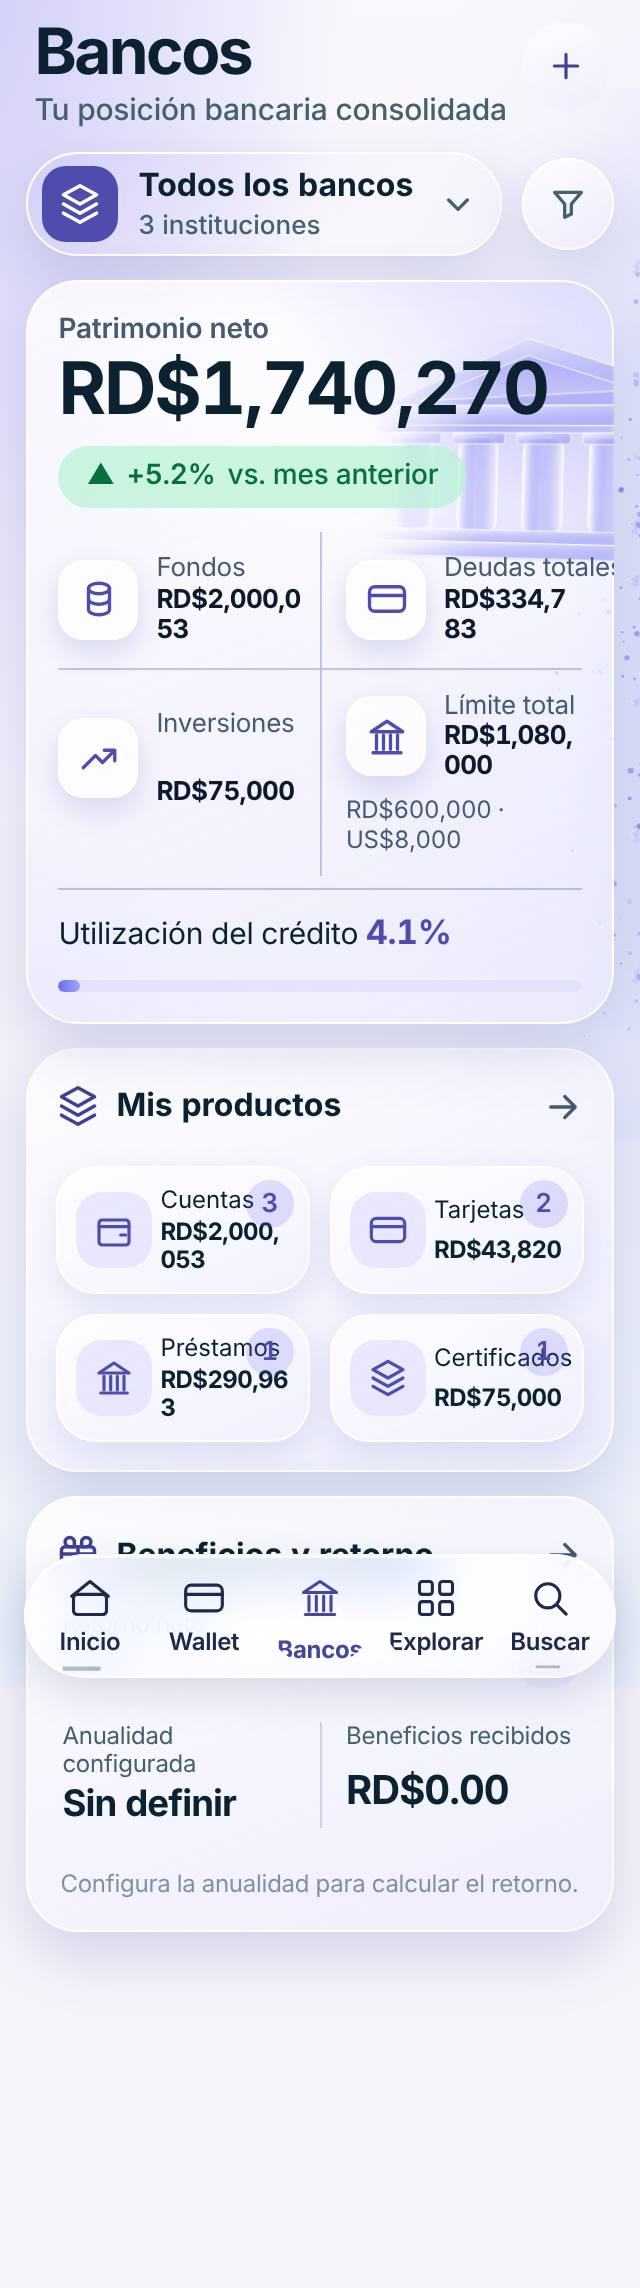
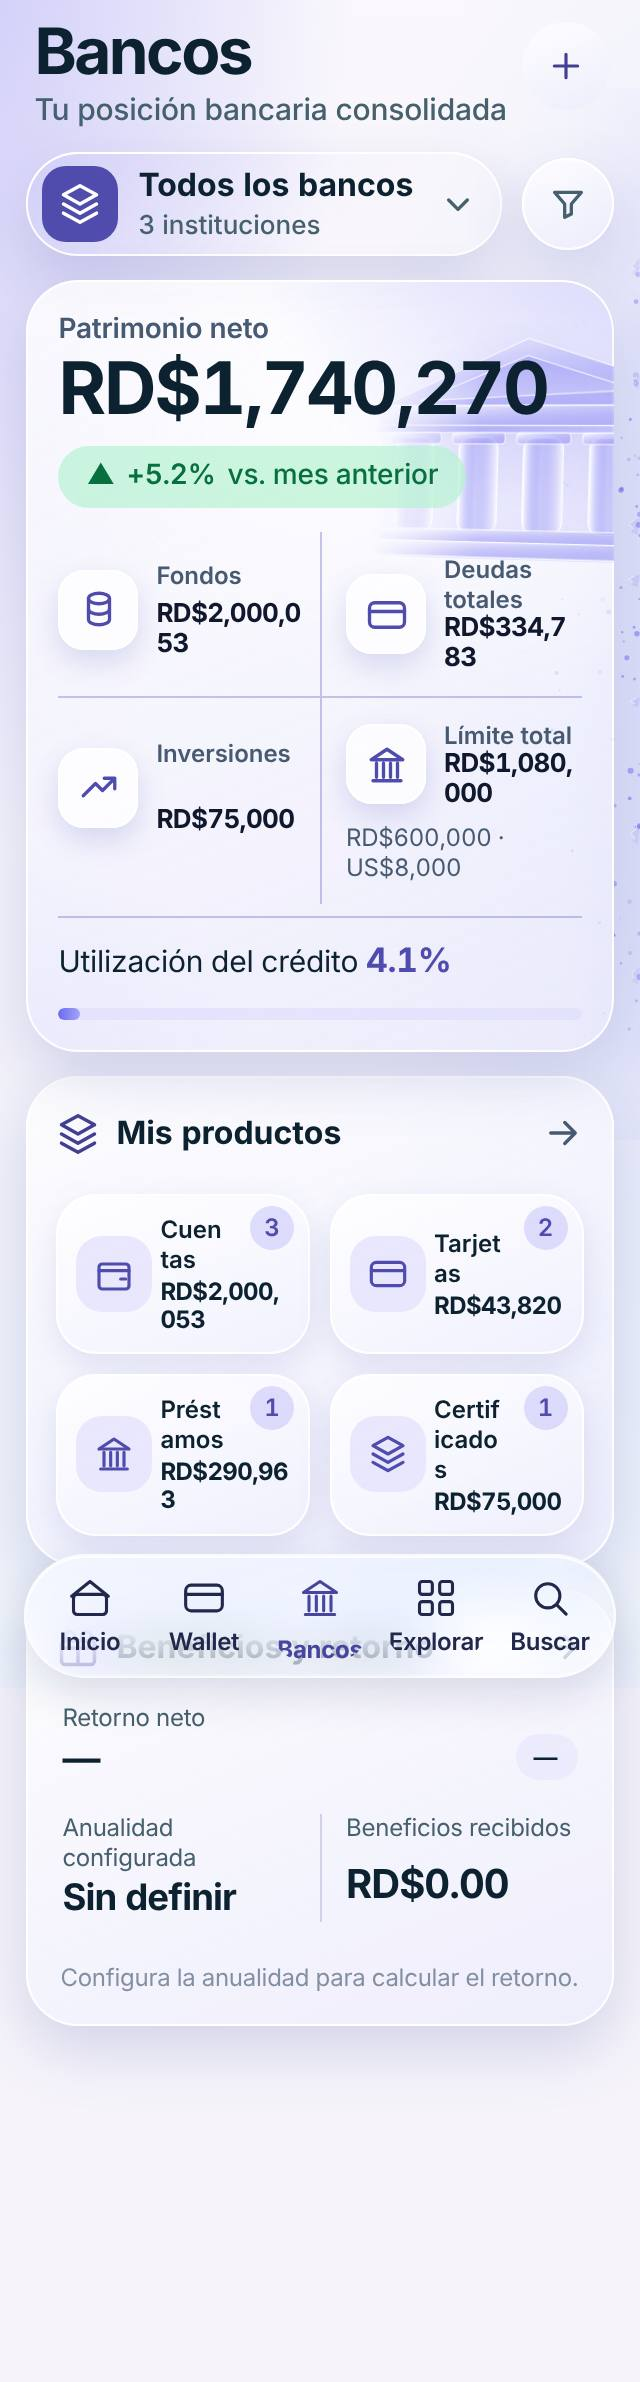
Bancos móvil: rótulos con la tipografía de Wallet (mayúsculas, semibold, espaciado) en indicadores y Mis productos
Claude-Session: https://claude.ai/code/session_01AwzF8JXGCqasa7rHAy2PHn

diff --git a/src/banks-mobile-glass.css b/src/banks-mobile-glass.css
@@ -253,3 +253,17 @@ html body #app#app#app#app #page#page .vBanks-mobile:has(>.vBanks-mobile-hero) .
 html body #app#app #page .vBanks-mobile-head.is-bank h1{display:flex;align-items:center;gap:10px}
 html body #app#app #page .vBanks-mobile-head.is-bank .vBanks-bank-logo{display:inline-flex;flex:none;width:38px;height:38px;border-radius:12px;overflow:hidden}
 html body #app#app #page .vBanks-mobile-head.is-bank .vBanks-bank-logo>*{width:100%!important;height:100%!important;min-width:0!important;border-radius:inherit}
+/* Rótulos con el carácter tipográfico de Wallet: mayúsculas, semibold, espaciado entre letras (12 px mínimo) */
+html body #app#app#app #page#page .vBanks-mobile:has(>.vBanks-mobile-hero) :is(.vBanks-mobile-net>span,.vBanks-mobile-hero dt,.vBanks-mobile-tiles>button>span,.vBanks-return-main>span,.vBanks-return-secondary>span,.vBanks-util>span:first-child,.vBanks-util-label){text-transform:uppercase!important;letter-spacing:.09em!important;font-weight:600!important;font-size:12px!important;line-height:1.25!important;white-space:nowrap}
+html body #app#app#app #page#page .vBanks-mobile:has(>.vBanks-mobile-hero) .vBanks-mobile-hero dt{letter-spacing:.07em!important}
+html body #app#app#app #page#page .vBanks-mobile:has(>.vBanks-mobile-hero) :is(.vBanks-mobile-products h2,.vBanks-mobile-return h2){letter-spacing:-.01em}
+html body #app#app#app #page#page .vBanks-mobile:has(>.vBanks-mobile-hero) .vBanks-mobile-hero dt{letter-spacing:.04em!important}
+html body #app#app#app #page#page .vBanks-mobile:has(>.vBanks-mobile-hero) .vBanks-mobile-tiles>button>span{letter-spacing:.03em!important;font-size:12px!important;padding-right:30px!important;overflow:visible!important;text-overflow:clip!important}
+@media(max-width:340px){html body #app#app#app #page#page .vBanks-mobile:has(>.vBanks-mobile-hero) :is(.vBanks-mobile-hero dt,.vBanks-mobile-tiles>button>span){letter-spacing:.01em!important}}
+html body #app#app#app#app #page#page .vBanks-mobile:has(>.vBanks-mobile-hero) .vBanks-mobile-hero dl dt{letter-spacing:.03em!important}
+html body #app#app#app#app #page#page .vBanks-mobile:has(>.vBanks-mobile-hero) .vBanks-mobile-tiles>button>span{letter-spacing:.015em!important;padding-right:34px!important}
+html body #app#app#app#app #page#page .vBanks-mobile:has(>.vBanks-mobile-hero) .vBanks-mobile-tiles>button>small,html body #app#app#app#app #page#page .vBanks-mobile:has(>.vBanks-mobile-hero) .vBanks-mobile-tiles>button>em{min-width:24px;height:24px;font-size:12px}
+html body #app#app#app#app #page#page .vBanks-mobile:has(>.vBanks-mobile-hero) .vBanks-mobile-tiles>button>span{letter-spacing:0!important;padding-right:30px!important}
+html body #app#app#app#app #page#page .vBanks-mobile:has(>.vBanks-mobile-hero) .vBanks-mobile-tiles>button>small,html body #app#app#app#app #page#page .vBanks-mobile:has(>.vBanks-mobile-hero) .vBanks-mobile-tiles>button>em{min-width:22px;height:22px;top:6px;right:8px}
+html body #app#app#app#app #page#page .vBanks-mobile:has(>.vBanks-mobile-hero) .vBanks-mobile-hero dl dt{letter-spacing:.02em!important}
+@media(max-width:360px){html body #app#app#app#app #page#page .vBanks-mobile:has(>.vBanks-mobile-hero) :is(.vBanks-mobile-hero dl dt,.vBanks-mobile-tiles>button>span){white-space:normal!important;overflow-wrap:anywhere;text-transform:none!important;letter-spacing:0!important;font-weight:600!important}}

diff --git a/index.html b/index.html
@@ -35,7 +35,7 @@
 <link rel="stylesheet" href="./src/desktop-legibility.css?v=2011"/>
 <link rel="stylesheet" href="./src/bancos-pc-glass.css?v=541&b=3" media="(min-width: 791px)"/>
 <link rel="stylesheet" href="./src/banks-mobile-legibility.css?v=41" media="(max-width: 790px)"/>
-<link rel="stylesheet" href="./src/banks-mobile-glass.css?v=8.1.1.1.1.1.1.1.1.1.1.113" media="(max-width: 790px)"/>
+<link rel="stylesheet" href="./src/banks-mobile-glass.css?v=8.1.1.1.1.1.1.1.1.1.1.119" media="(max-width: 790px)"/>
 <link rel="stylesheet" href="./src/wallet-glass.css?v=913"/>
 <link rel="stylesheet" href="./src/wallet-reference-fidelity.css?v=81"/>
 <link rel="stylesheet" href="./src/wallet-mobile-approved.css?v=41" media="(max-width: 790px)"/>
